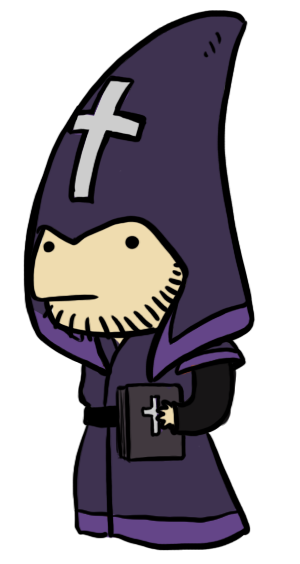
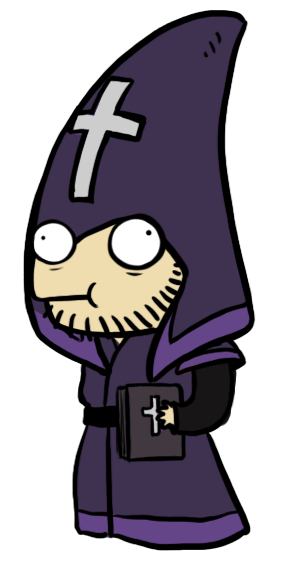
Added witch.

diff --git a/src/components/entity-graphics/entity-graphics.tsx b/src/components/entity-graphics/entity-graphics.tsx
@@ -16,7 +16,8 @@ import headhunterGraphics from '../../assets/img/enemies/headhunter.png';
 import headhunterCierpiGraphics from '../../assets/img/enemies/headhunter_cierpi.png';
 import inkwizytorGraphics from '../../assets/img/enemies/inkwizytor.png';
 import inkwizytorCierpiGraphics from '../../assets/img/enemies/inkwizytor_cierpi.png';
-
+import wiedzmaGraphics from '../../assets/img/enemies/wiedzma.png';
+import wiedzmaCierpiGraphics from '../../assets/img/enemies/wiedzma_cierpi.png';
 
 
 interface Props {
@@ -43,6 +44,7 @@ interface NameMapping {
   FastEnemy: EnemyData;
   BigEnemy: EnemyData;
   HealerEnemy: EnemyData;
+  ToughEnemy: EnemyData;
 }
 
 const ANCHOR_POINT = new PIXI.Point(0, 1);
@@ -81,6 +83,13 @@ const nameMapping: NameMapping = {
       isDmg: PIXI.Texture.from(inkwizytorCierpiGraphics, mipmapOption),
     },
     sayings: ['Do you want to talk about Jesus?'],
+  },
+  ToughEnemy: {
+    texture: {
+      isOk: PIXI.Texture.from(wiedzmaGraphics, mipmapOption),
+      isDmg: PIXI.Texture.from(wiedzmaCierpiGraphics, mipmapOption),
+    },
+    sayings: ['Do you have any sugar, neighbor?'],
   },
 };
 

diff --git a/src/game/entity.ts b/src/game/entity.ts
@@ -1,6 +1,6 @@
 import { Stat } from './util/Stat';
 import { Status, Statuses } from './status';
-import { Damage } from './damage';
+import { DamageType, Damage } from './damage';
 import { UniqueObject } from './unique-object';
 import { Field } from './board';
 import { Actions } from './actions';
@@ -34,6 +34,11 @@ export class Entity extends UniqueObject {
 
     // add damage for each soak token
     damage.amount += this.statuses.getValue(Status.Soak);
+    if (damage.type != DamageType.PiercingDamage) {
+      damage.amount -= this.statuses.getValue(Status.Tough);
+    }
+
+    if (damage.amount < 0) damage.amount = 0;
 
     this.hp.substract(damage.amount);
     let damageDealt = oldHP - this.hp.value();
@@ -55,6 +60,6 @@ export class Entity extends UniqueObject {
     Actions.substractStatus(this, Status.Soak);
 
     let poison = this.statuses.getValue(Status.Poison);
-    if (poison) Actions.dealDamage(this, new Damage(poison));
+    if (poison) Actions.dealDamage(this, new Damage(poison, DamageType.Normal));
   }
 }

diff --git a/src/game/enemiesCards/spawn-enemies.ts b/src/game/enemiesCards/spawn-enemies.ts
@@ -1,6 +1,6 @@
 import { Card, PlayContext } from '../card';
 import { Actions } from '../actions';
-import { TestEnemy, FastEnemy, BigEnemy, HealerEnemy } from '../enemies/enemies';
+import { TestEnemy, FastEnemy, BigEnemy, HealerEnemy, ToughEnemy } from '../enemies/enemies';
 import { Enemy } from '../enemies/enemy';
 import { Target } from '../target';
 import { GameState } from '../game';
@@ -33,6 +33,12 @@ let testWaves: Wave[] = [
 
   {
     enemies: () => [new HealerEnemy, new HealerEnemy],
+    weight: 2,
+    delay: 2,
+  },
+
+  {
+    enemies: () => [new ToughEnemy, new ToughEnemy],
     weight: 2,
     delay: 2,
   },

diff --git a/src/game/enemies/enemies.ts b/src/game/enemies/enemies.ts
@@ -2,6 +2,7 @@ import { Enemy } from './enemy';
 import { Actions } from '../actions';
 import { Target } from '../target';
 import { Entity } from '../entity';
+import { Status } from '../status';
 
 let additionalHP = 2;
 
@@ -42,6 +43,16 @@ export class HealerEnemy extends Enemy {
   }
 }
 
+export class ToughEnemy extends Enemy {
+  healAmount = 2;
+
+  constructor() {
+    super();
+    this.name = "ToughEnemy";
+    this.hp.setMax(6 + additionalHP);
+    this.statuses.add(Status.Tough, 2);
+  }
+}
 
 export class BigEnemy extends Enemy {
   regen = 2;

diff --git a/src/game/status.ts b/src/game/status.ts
@@ -3,7 +3,8 @@ import { Stat } from './util/Stat';
 export enum Status {
   Soak,
   Stun,
-  Poison
+  Poison,
+  Tough,
 }
 
 export class Statuses {
@@ -11,6 +12,7 @@ export class Statuses {
     [Status.Soak]: Stat.CreateEmptyWithMax(1000),
     [Status.Stun]: Stat.CreateEmptyWithMax(1),
     [Status.Poison]: Stat.CreateEmptyWithMax(1000),
+    [Status.Tough]: Stat.CreateEmptyWithMax(1000),
   };
 
   getValue(type: Status) {

diff --git a/src/game/damage.ts b/src/game/damage.ts
@@ -1,8 +1,15 @@
+export enum DamageType {
+  Normal,
+  PiercingDamage
+}
+
 export class Damage {
   amount: number;
   responseDamageDealt: number = 0;
+  type: DamageType;
 
-  constructor(amount = 1) {
+  constructor(amount = 1, type = DamageType.Normal) {
     this.amount = amount;
+    this.type = type;
   }
 }
